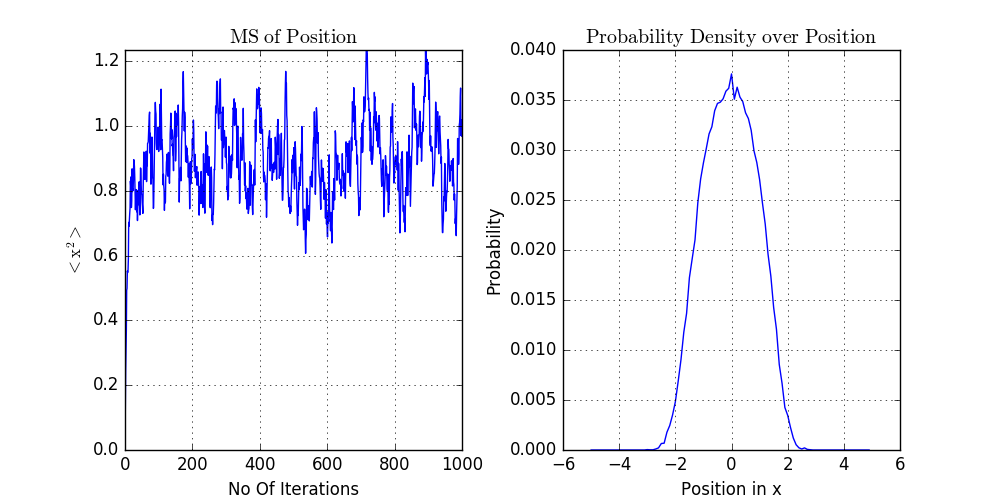
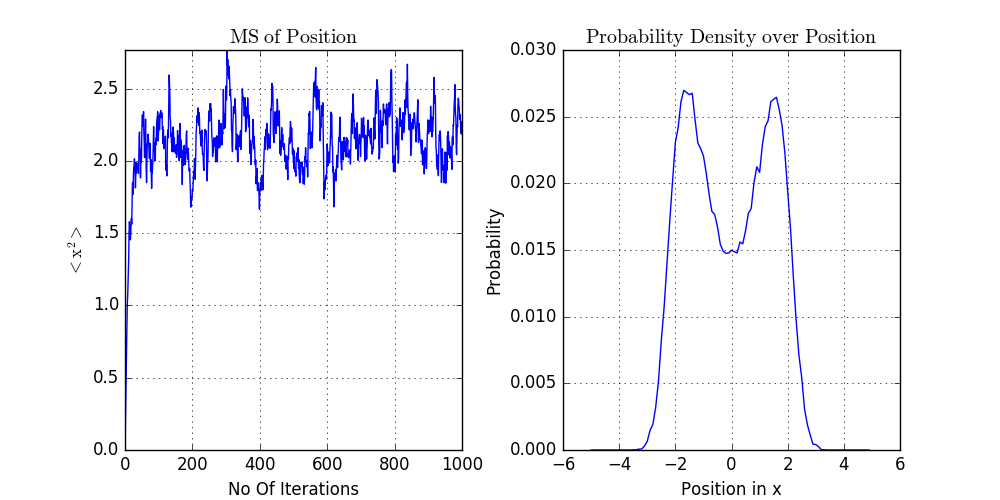
Corrections and Updates

diff --git a/main.py b/main.py
@@ -6,7 +6,7 @@ T = 10.0 #Imaginary time period
 a = 0.1 #Lattice Spacing
 char = 'c' #Choose Hot = 'h' or Cold = 'c' Start
 thermalize = False #Set True to run Thermalization to pass burn-in phase
-lam = 0.0 #lam = 0 -> Harmonic Oscillator; lam > 0 -> Anharmonic Oscillator
+lam = 1.0 #lam = 0 -> Harmonic Oscillator; lam > 0 -> Anharmonic Oscillator
 n_steps = 1000  #Number of Monte Carlo steps
 x_max = 5.0 #Max value corresponding to the last bin
 n_bins = 100 #Number of bins to draw the probability density histogram over

diff --git a/PIMC.py b/PIMC.py
@@ -26,7 +26,7 @@ class Path(object):
             self.X = np.zeros(self.M, dtype=np.int).tolist() #Cold Start
 
     def V(self,x):
-        return 0.5*(x**2) + self.lam*(x**4) #Potential Energy(PE) with m = 1, f = 1
+        return 0.5*(x**2) + self.lam*((x**2-1.75**2)**2) #Potential Energy(PE) with m = 1, f = 1
                                             #lam = 0 -> Harmonic Oscillator; lam > 0 -> Anharmonic Oscillator
 
     def K(self,x):
